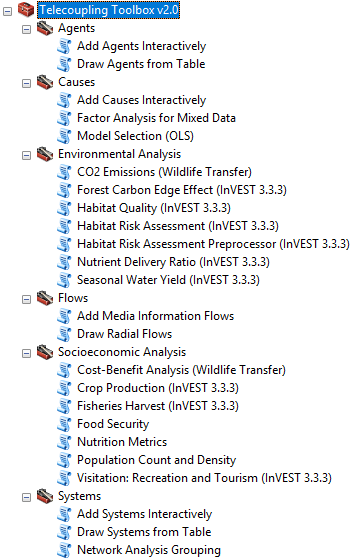
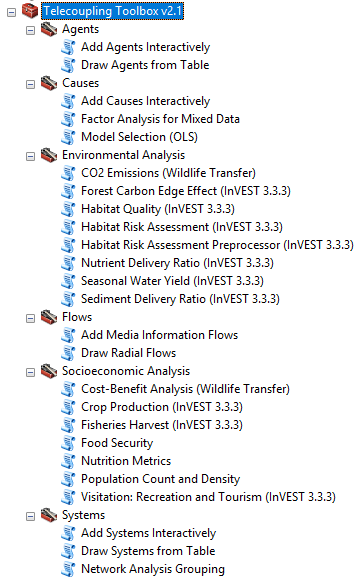
upgrade to tbx v2.1

Changed region(s): [[0.0, 0.0, 0.9972, 1.0]]

diff --git a/events.html b/events.html
@@ -11,6 +11,14 @@ title: Events
         <h2>2018</h2>
         <ul>
           <li>
+            <a href="http://www.glp.taipei.ntu.edu.tw/2018-asia-conference/" alt="">Global Land Programme 2018 Asia Conference</a> (Taipei, Taiwan, September 3-5):
+          </li>
+          <ul>
+            <li><strong>Session</strong>: <em>Hidden impacts of telecoupled food production and consumption</em></li>
+            <li><strong>Session</strong>: <em>Telecoupled flows across scales</em></li>
+            <li><strong>Special/Training</strong>: <em>Telecoupling Toolbox – Geospatial Software Tools for the Analysis of Telecoupled Human-Natural Systems</em></li>
+          </ul>
+          <li>
             <a href="http://www.usiale.org/archives.html" alt="">US-IALE 2018 Annual Meeting</a> (Chicago, April 8-12):
           </li>
           <ul>
@@ -36,16 +44,6 @@ title: Events
         </ul>
         <h2>Upcoming Events</h2>
         <h2>2018</h2>
-        <ul>
-          <li>
-            <a href="http://www.glp.taipei.ntu.edu.tw/2018-asia-conference/" alt="">Global Land Programme 2018 Asia Conference</a> (Taipei, Taiwan, September 3-5):
-          </li>
-          <ul>
-            <li><strong>Session</strong>: <em>Hidden impacts of telecoupled food production and consumption</em></li>
-            <li><strong>Session</strong>: <em>Telecoupled flows across scales</em></li>
-            <li><strong>Special/Training</strong>: <em>Telecoupling Toolbox – Geospatial Software Tools for the Analysis of Telecoupled Human-Natural Systems</em></li>
-          </ul>
-        </ul>
       </div>
   </div>
 </div>

diff --git a/index.html b/index.html
@@ -117,6 +117,11 @@ bigimg: "/img/Wolong_PP_Cover3.png"
 			<hr class="style-two">
 			<ul>
 				<li>
+						McCord, P., Tonini, F., and Liu, J. (2018). Making strides in sustainable development with the Telecoupling GeoApp. Science Trends, September 6, 2018. 
+						<a href="https://sciencetrends.com/making-strides-in-sustainable-development-with-the-telecoupling-geoapp/">https://sciencetrends.com/making-strides-in-sustainable-development-with-the-telecoupling-geoapp/</a>
+				</li>
+				<br>
+				<li>
 						McCord, P., Tonini, F., and Liu, J. (2018). The Telecoupling GeoApp: A Web-GIS Application to Systematically Analyze Telecouplings and Sustainable Development. <em>Applied Geography</em>, 96, pp. 16-28. 
 						<a href="https://doi.org/10.1016/j.apgeog.2018.05.001">https://doi.org/10.1016/j.apgeog.2018.05.001</a>
 				</li>

diff --git a/releases-arcgis-toolbox.html b/releases-arcgis-toolbox.html
@@ -10,6 +10,8 @@ subtitle: Major and Minor Releases
             <h2>Major Releases</h2>
             <p>
                 <ul>
+                    <li>Version 2.1</li>
+                    <p>This release adds a new tool to the Environmental Analysis toolset, called <em>Sedimenty Delivery Ratio</em>, customized from InVEST (3.3.3). This tool can be used to estimate overland sediment generation and delivery to the stream.</p>
                     <li>Version 2.0</li>
                     <p>This release adds a new tool to the Socioeconomic Analysis toolset, called <em>Food Security</em>. This tool can be used to estimate rainfall and distance to market within an area of interest.</p>
                     <li>Version 1.7 (<em>beta</em>)</li>
